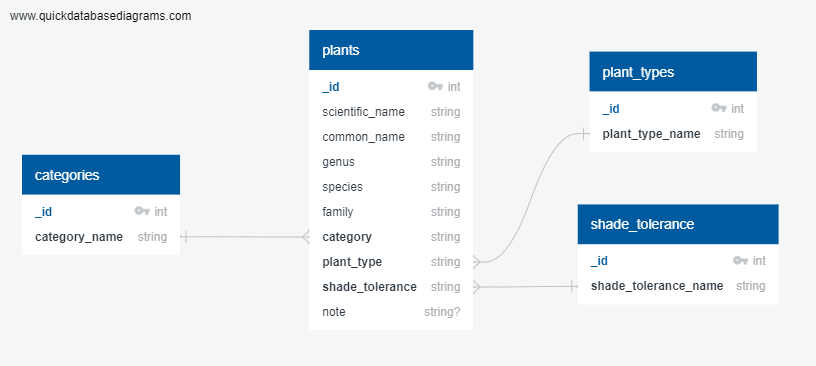
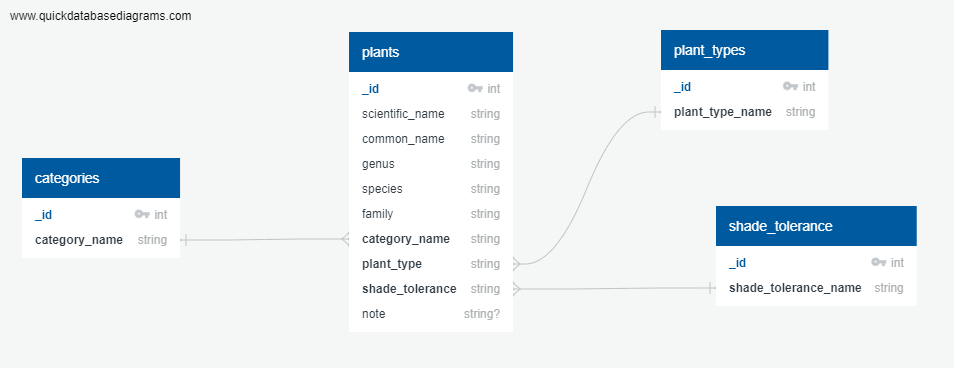
update db documentation, update readme

diff --git a/app.py b/app.py
@@ -275,4 +275,4 @@ def delete_category(category_id):
 if __name__ == '__main__':
     app.run(host=os.environ.get('IP'),
             port=os.environ.get('PORT'),
-            debug=True)
+            debug=False)

diff --git a/README.md b/README.md
@@ -418,7 +418,7 @@ Back to [top](#TableOfContents)
 | Add a category | Click on Categories menu then Add category sub-menu, fill all the fields and submit | The category should be added in the Categories page and in the database | as expected |
 | Edit a category | Click on Edit button for the chosen category in the Categories page, update fields and submit | The category should be updated in the Categories page and in the database | as expected |
 | Delete a category | Click on Delete button for the chosen category in the Categories page. A confirmation modal should pop up. Agree | The category should be updated in the Categories page and in the database | as expected |
-| Search by scientific name, common name | Enter a scientific plant name (or part of it) and submit. Redo this test case with a common plant name (or part of it) | The result of the search should be displayed in the Plant search results page | The search feature filters by common name or scientific name but the list rendering fails. |
+| Search by scientific name, common name | Enter a scientific plant name (or part of it) and submit. Redo this test case with a common plant name (or part of it) | The result of the search should be displayed in the Plant search results page | The search results list fails to be displayed correctly. |
 | View a specific message if no search result found | Enter a search which does not exist | The No results found page should be displayed (example: *aaaaa* ) | as expected |
 | View an error page if the page doesn't exist | Enter an URL which does not exist | The 404 error page should be displayed (example: *https://the-green-corner.herokuapp.com/get_plants/bb* ) | as expected |
 
@@ -539,7 +539,8 @@ Back to [top](#TableOfContents)
 
 ### Known Issues <a name="KnownIssues"></a>
 
-- When a search entry matches with some results, this list is not displayed as expected in the Plant search results page. The search feature filters by common name or scientific name but the list rendering fails.
+- When a search entry matches with some results, this list is not displayed as expected in the Plant search results page. The search results list fails to be displayed correctly.
+- When a category is updated/deleted, the category_name field associated in plants pages is not updated/deleted.
 
 Back to [top](#TableOfContents)
 
@@ -595,7 +596,7 @@ common_name string
 genus string
 species string
 family string
-category string FK >- categories.category_name
+category_name string FK >- categories.category_name
 plant_type string FK >- plant_types.plant_type_name
 shade_tolerance string FK >- shade_tolerance.shade_tolerance_name
 note NULL string
